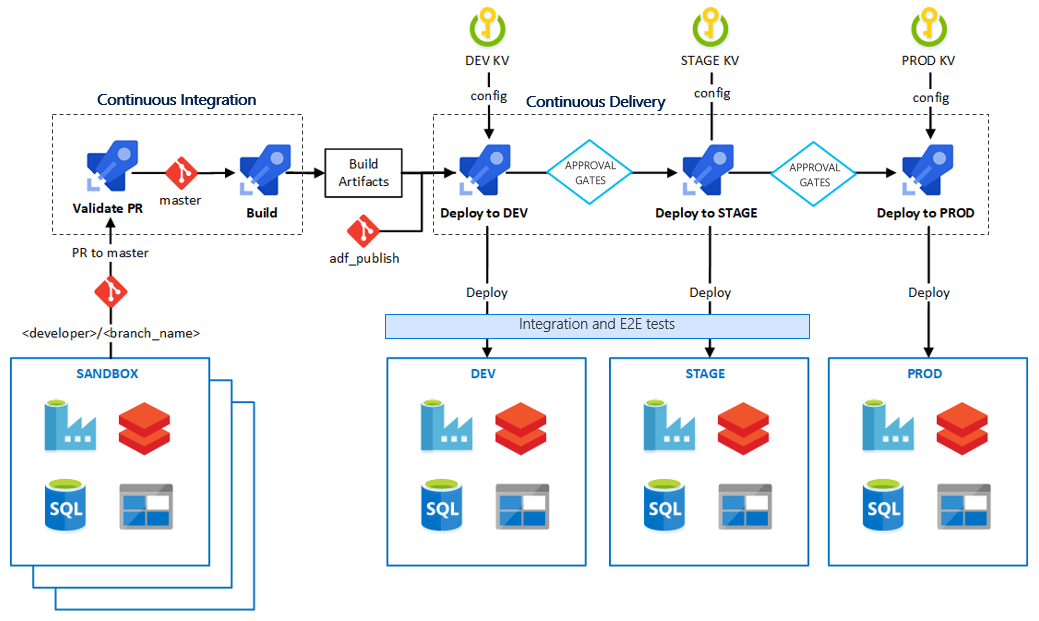
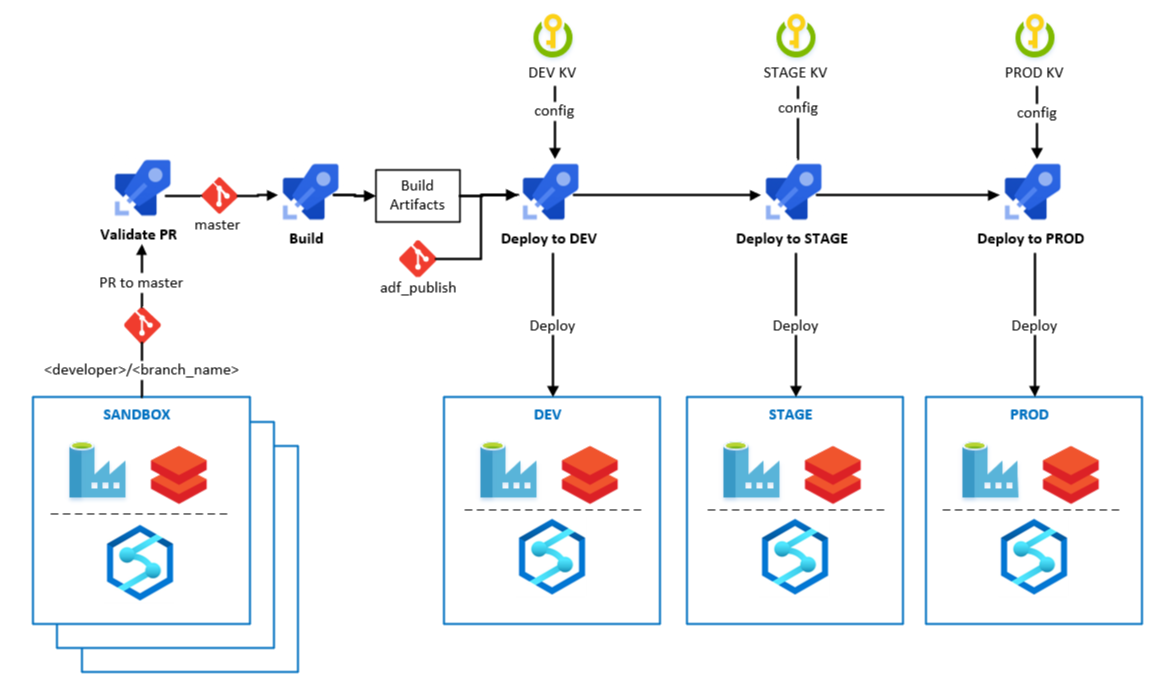
fix: main README, add synapse

Changed region(s): [[0.0, 0.0, 1.0, 1.0], [0.0924, 0.153, 0.2464, 0.1836]]

diff --git a/README.md b/README.md
@@ -42,7 +42,9 @@ The samples are either focused on a single azure service (**Single Tech Samples*
 
 ## End to End samples
 
-- [**Parking Sensor Solution**](e2e_samples/parking_sensors/) - This demonstrates batch, end-to-end data pipeline following the MDW architecture, along with a corresponding CI/CD process. See [here](https://www.youtube.com/watch?v=Xs1-OU5cmsw) for the presentation which includes a detailed walk-through of the solution.
+- **Parking Sensor Solution** - This demonstrates batch, end-to-end data pipeline following the MDW architecture, along with a corresponding CI/CD process. This has two version of the solution:
+  - [Parking Sensor: Azure Data Factory and Azure Databricks Version](e2e_samples/parking_sensors/)
+  - [Parking Sensor: Azure Synapse Version](e2e_samples/parking_sensors_synapse/)
 ![Architecture](docs/images/CI_CD_process_simplified.PNG?raw=true "Architecture")
 - [**Temperature Events Solution**](e2e_samples/temperature_events) - This demonstrate a high-scale event-driven data pipeline with a focus on how to implement Observability and Load Testing.
 ![Architecture](e2e_samples/temperature_events/images/temperature-events-architecture.png?raw=true "Architecture")
